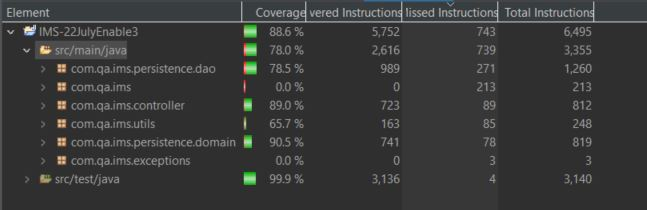
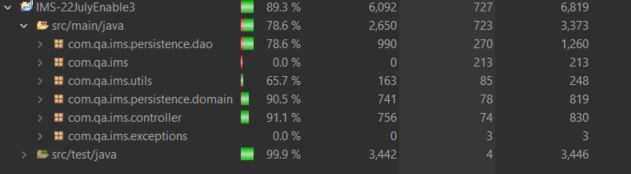
Add further order controller tests

diff --git a/src/test/java/com/qa/ims/controllers/OrderControllerTest.java b/src/test/java/com/qa/ims/controllers/OrderControllerTest.java
@@ -249,6 +249,25 @@ public class OrderControllerTest {
 	}
 	
 	@Test
+	public void testAddItemInvalidOrder() {
+		final long ORDERID = 1l;
+		final long ITEMID = 2l;
+		final long QUANTITY = 5l;
+		
+		Item testItem = new Item(ITEMID, "stuff", 5.00, 6l);
+		
+		Mockito.when(utils.getLong()).thenReturn(ORDERID, ITEMID, QUANTITY);
+		Mockito.when(itemDao.read(ITEMID)).thenReturn(testItem);
+		Mockito.when(dao.read(ORDERID)).thenReturn(null);
+		
+		assertEquals(null, controller.addItem());
+		
+		Mockito.verify(utils, Mockito.times(3)).getLong();
+		Mockito.verify(itemDao, Mockito.times(1)).read(ITEMID);
+		Mockito.verify(dao, Mockito.times(1)).read(ORDERID);
+	}
+	
+	@Test
 	public void testRemoveItem() {
 		final long ORDERID = 1l;
 		final long ITEMID = 2l;
@@ -275,6 +294,47 @@ public class OrderControllerTest {
 		Mockito.verify(lineItemDao, Mockito.times(1)).delete(testLineItem.getId());
 		Mockito.verify(itemDao, Mockito.times(1)).update(testItem);
 
+	}
+	
+	@Test
+	public void testRemoveItemInvalidOrder() {
+		final long ORDERID = 1l;
+		final long ITEMID = 2l;
+		
+		Item testItem = new Item(ITEMID, "stuff", 5.00, 6l);
+		
+		Mockito.when(utils.getLong()).thenReturn(ORDERID, ITEMID);
+		Mockito.when(itemDao.read(ITEMID)).thenReturn(testItem);
+		Mockito.when(dao.read(ORDERID)).thenReturn(null);
+		
+		assertEquals(null, controller.removeItem());
+		
+		Mockito.verify(utils, Mockito.times(2)).getLong();
+		Mockito.verify(itemDao, Mockito.times(1)).read(ITEMID);
+		Mockito.verify(dao, Mockito.times(1)).read(ORDERID);
+
+	}
+	
+	@Test
+	public void testRemoveItemInvalidLineItem() {
+		final long ORDERID = 1l;
+		final long ITEMID = 2l;
+		
+		Item testItem = new Item(ITEMID, "stuff", 5.00, 6l);
+		Customer testCustomer = new Customer(1l, "James", "Jones");
+		Order testOrder = new Order(ORDERID, "1234", testCustomer);
+		
+		Mockito.when(utils.getLong()).thenReturn(ORDERID, ITEMID);
+		Mockito.when(itemDao.read(ITEMID)).thenReturn(testItem);
+		Mockito.when(dao.read(ORDERID)).thenReturn(testOrder);
+		Mockito.when(lineItemDao.readByOrderItem(ORDERID, ITEMID)).thenReturn(null);
+		
+		assertEquals(null, controller.removeItem());
+		
+		Mockito.verify(utils, Mockito.times(2)).getLong();
+		Mockito.verify(itemDao, Mockito.times(1)).read(ITEMID);
+		Mockito.verify(dao, Mockito.times(1)).read(ORDERID);
+		Mockito.verify(lineItemDao, Mockito.times(1)).readByOrderItem(ORDERID, ITEMID);
 	}
 
 }

diff --git a/README.md b/README.md
@@ -183,7 +183,7 @@ These instructions will detail how to open and run the project in Eclipse.
 
 ### Unit Tests 
 
-Unit tests have been written to cover the majority of code in the controller and persistence domain and persistence dao packages. They can be found in the src/test/java folder. The testing coverage of the src/main/java folder is currently at 78% just below industry standard. The main lack of coverage is currently seen in the IMS which contains complicated to test void methods and Utils which manages all user interaction via a Scanner class.
+Unit tests have been written to cover the majority of code in the controller and persistence domain and persistence dao packages. They can be found in the src/test/java folder. The testing coverage of the src/main/java folder is currently at 78.6% just below industry standard. The main lack of coverage is currently seen in the IMS which contains complicated to test void methods and Utils which manages all user interaction via a Scanner class.
 
 ![Testing Coverage](documentation/testing-coverage-ims-project.jpg)
 
